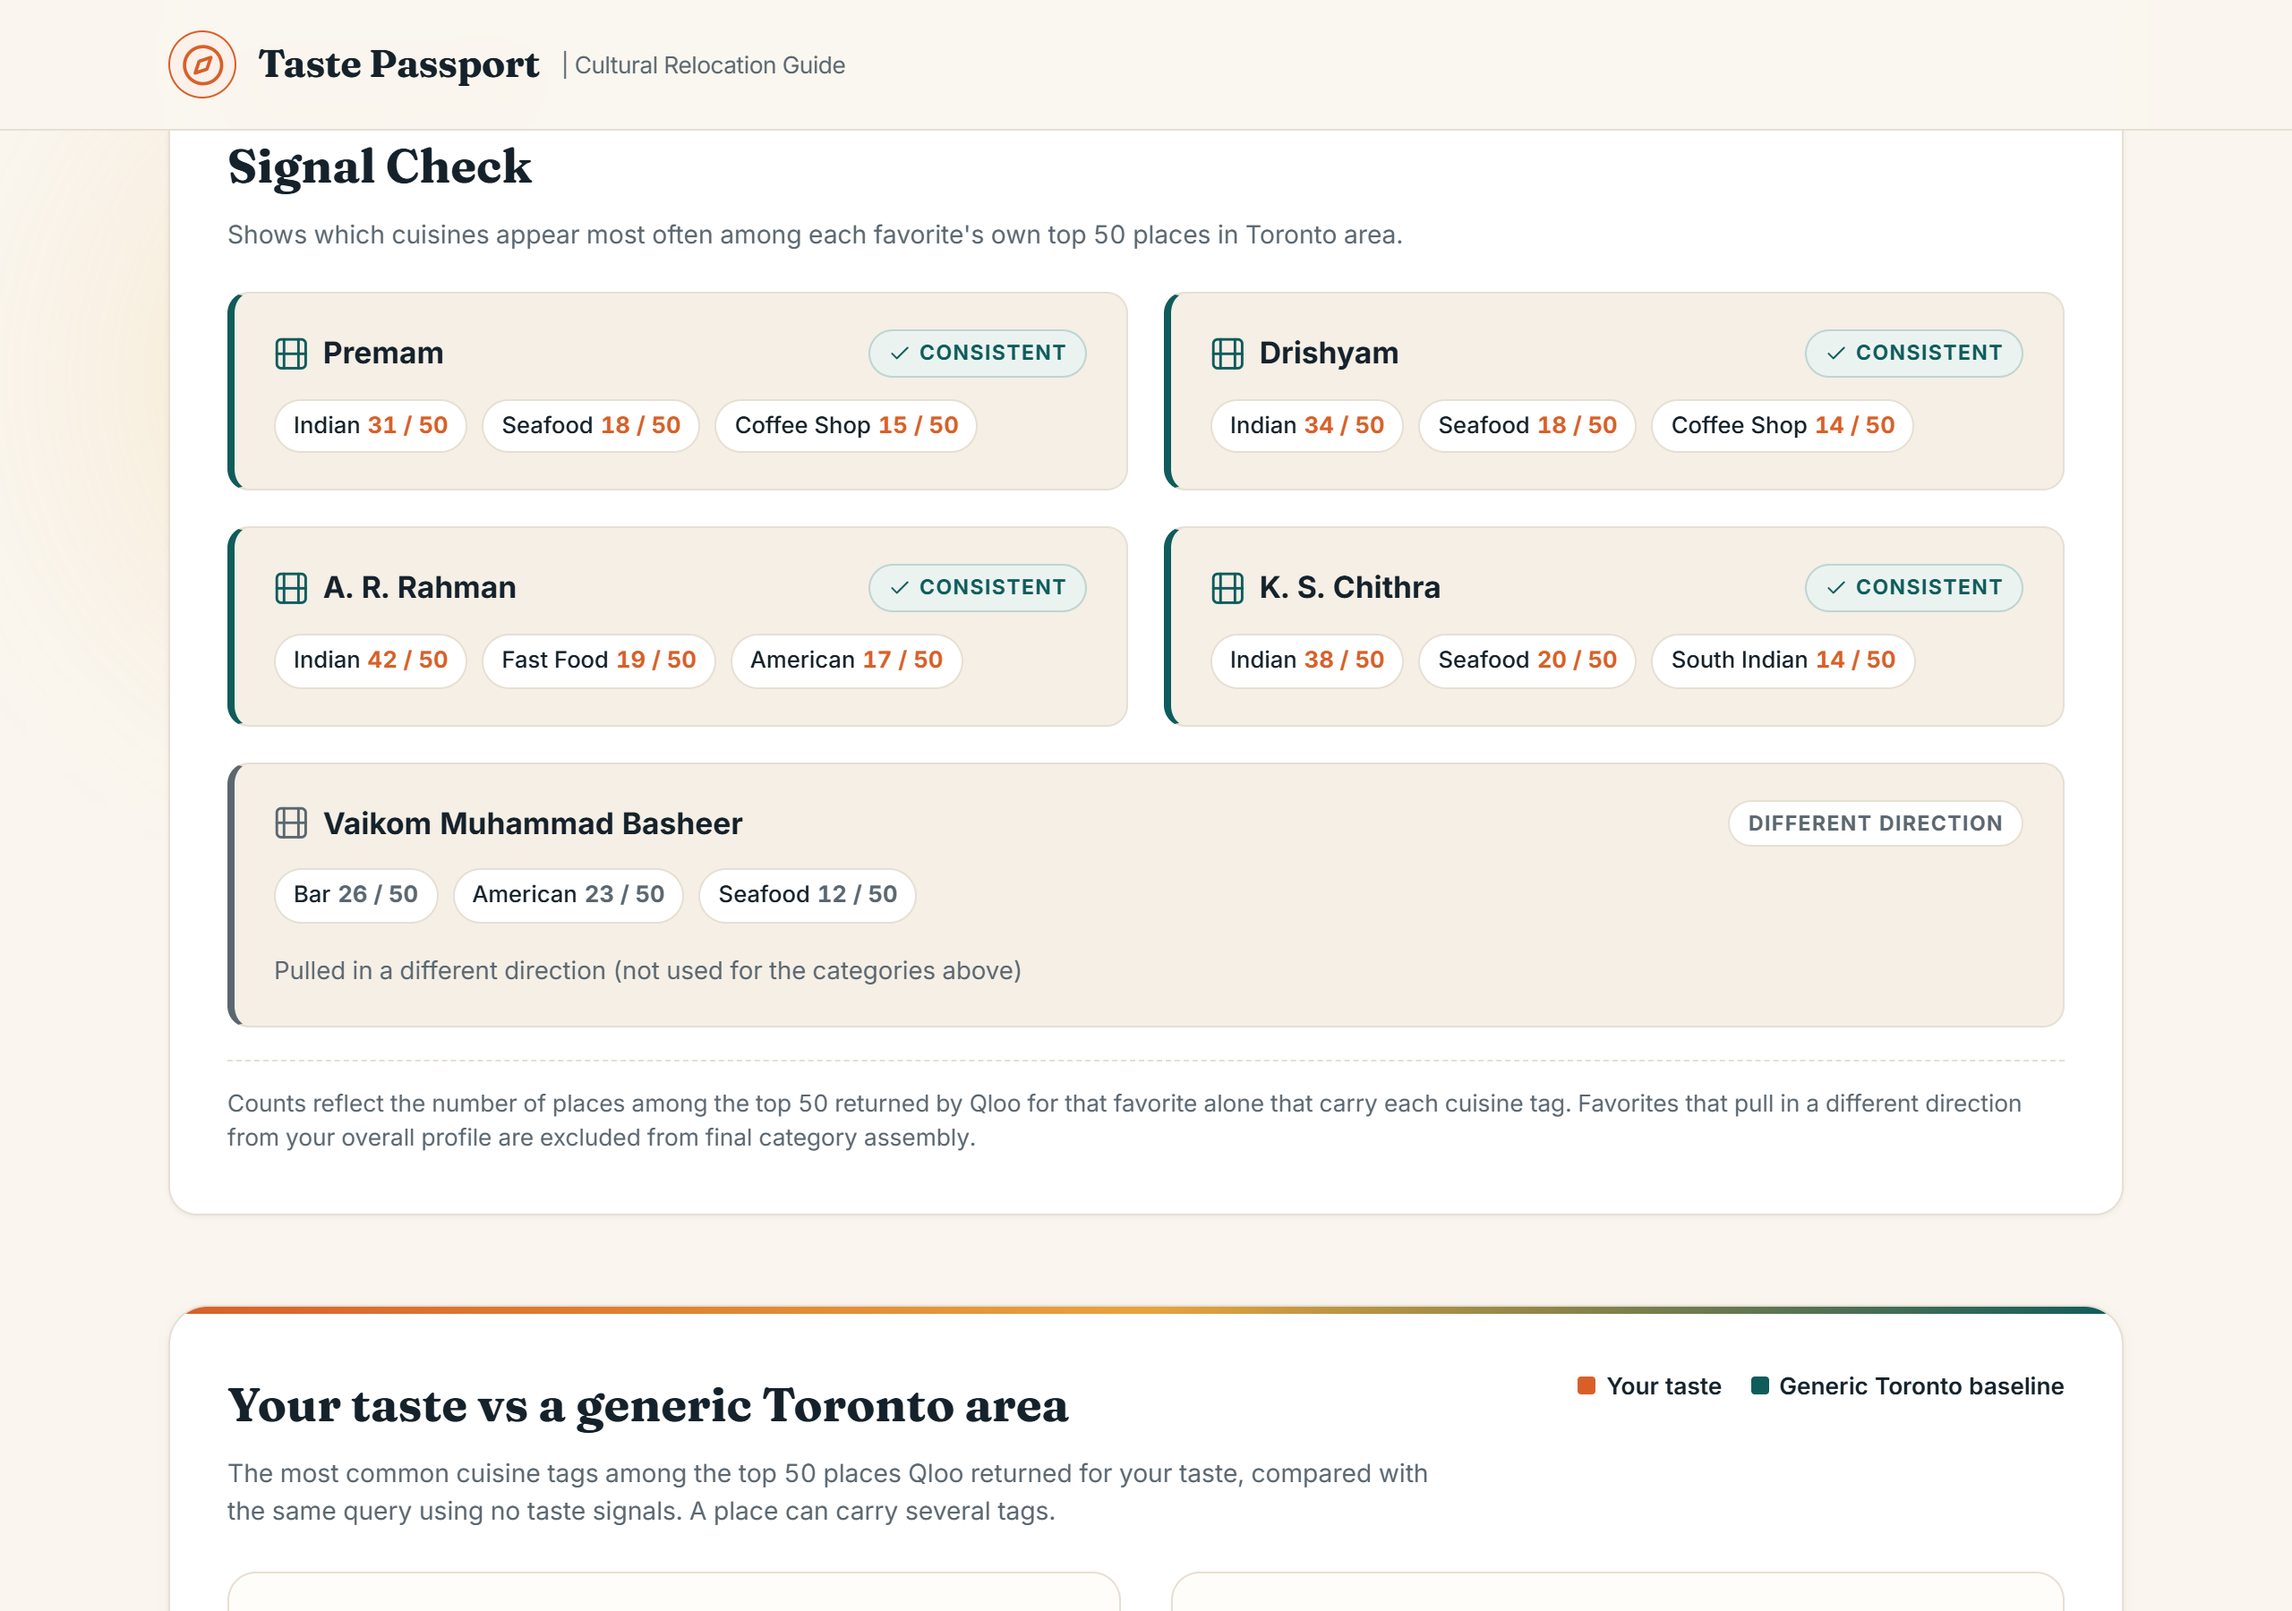
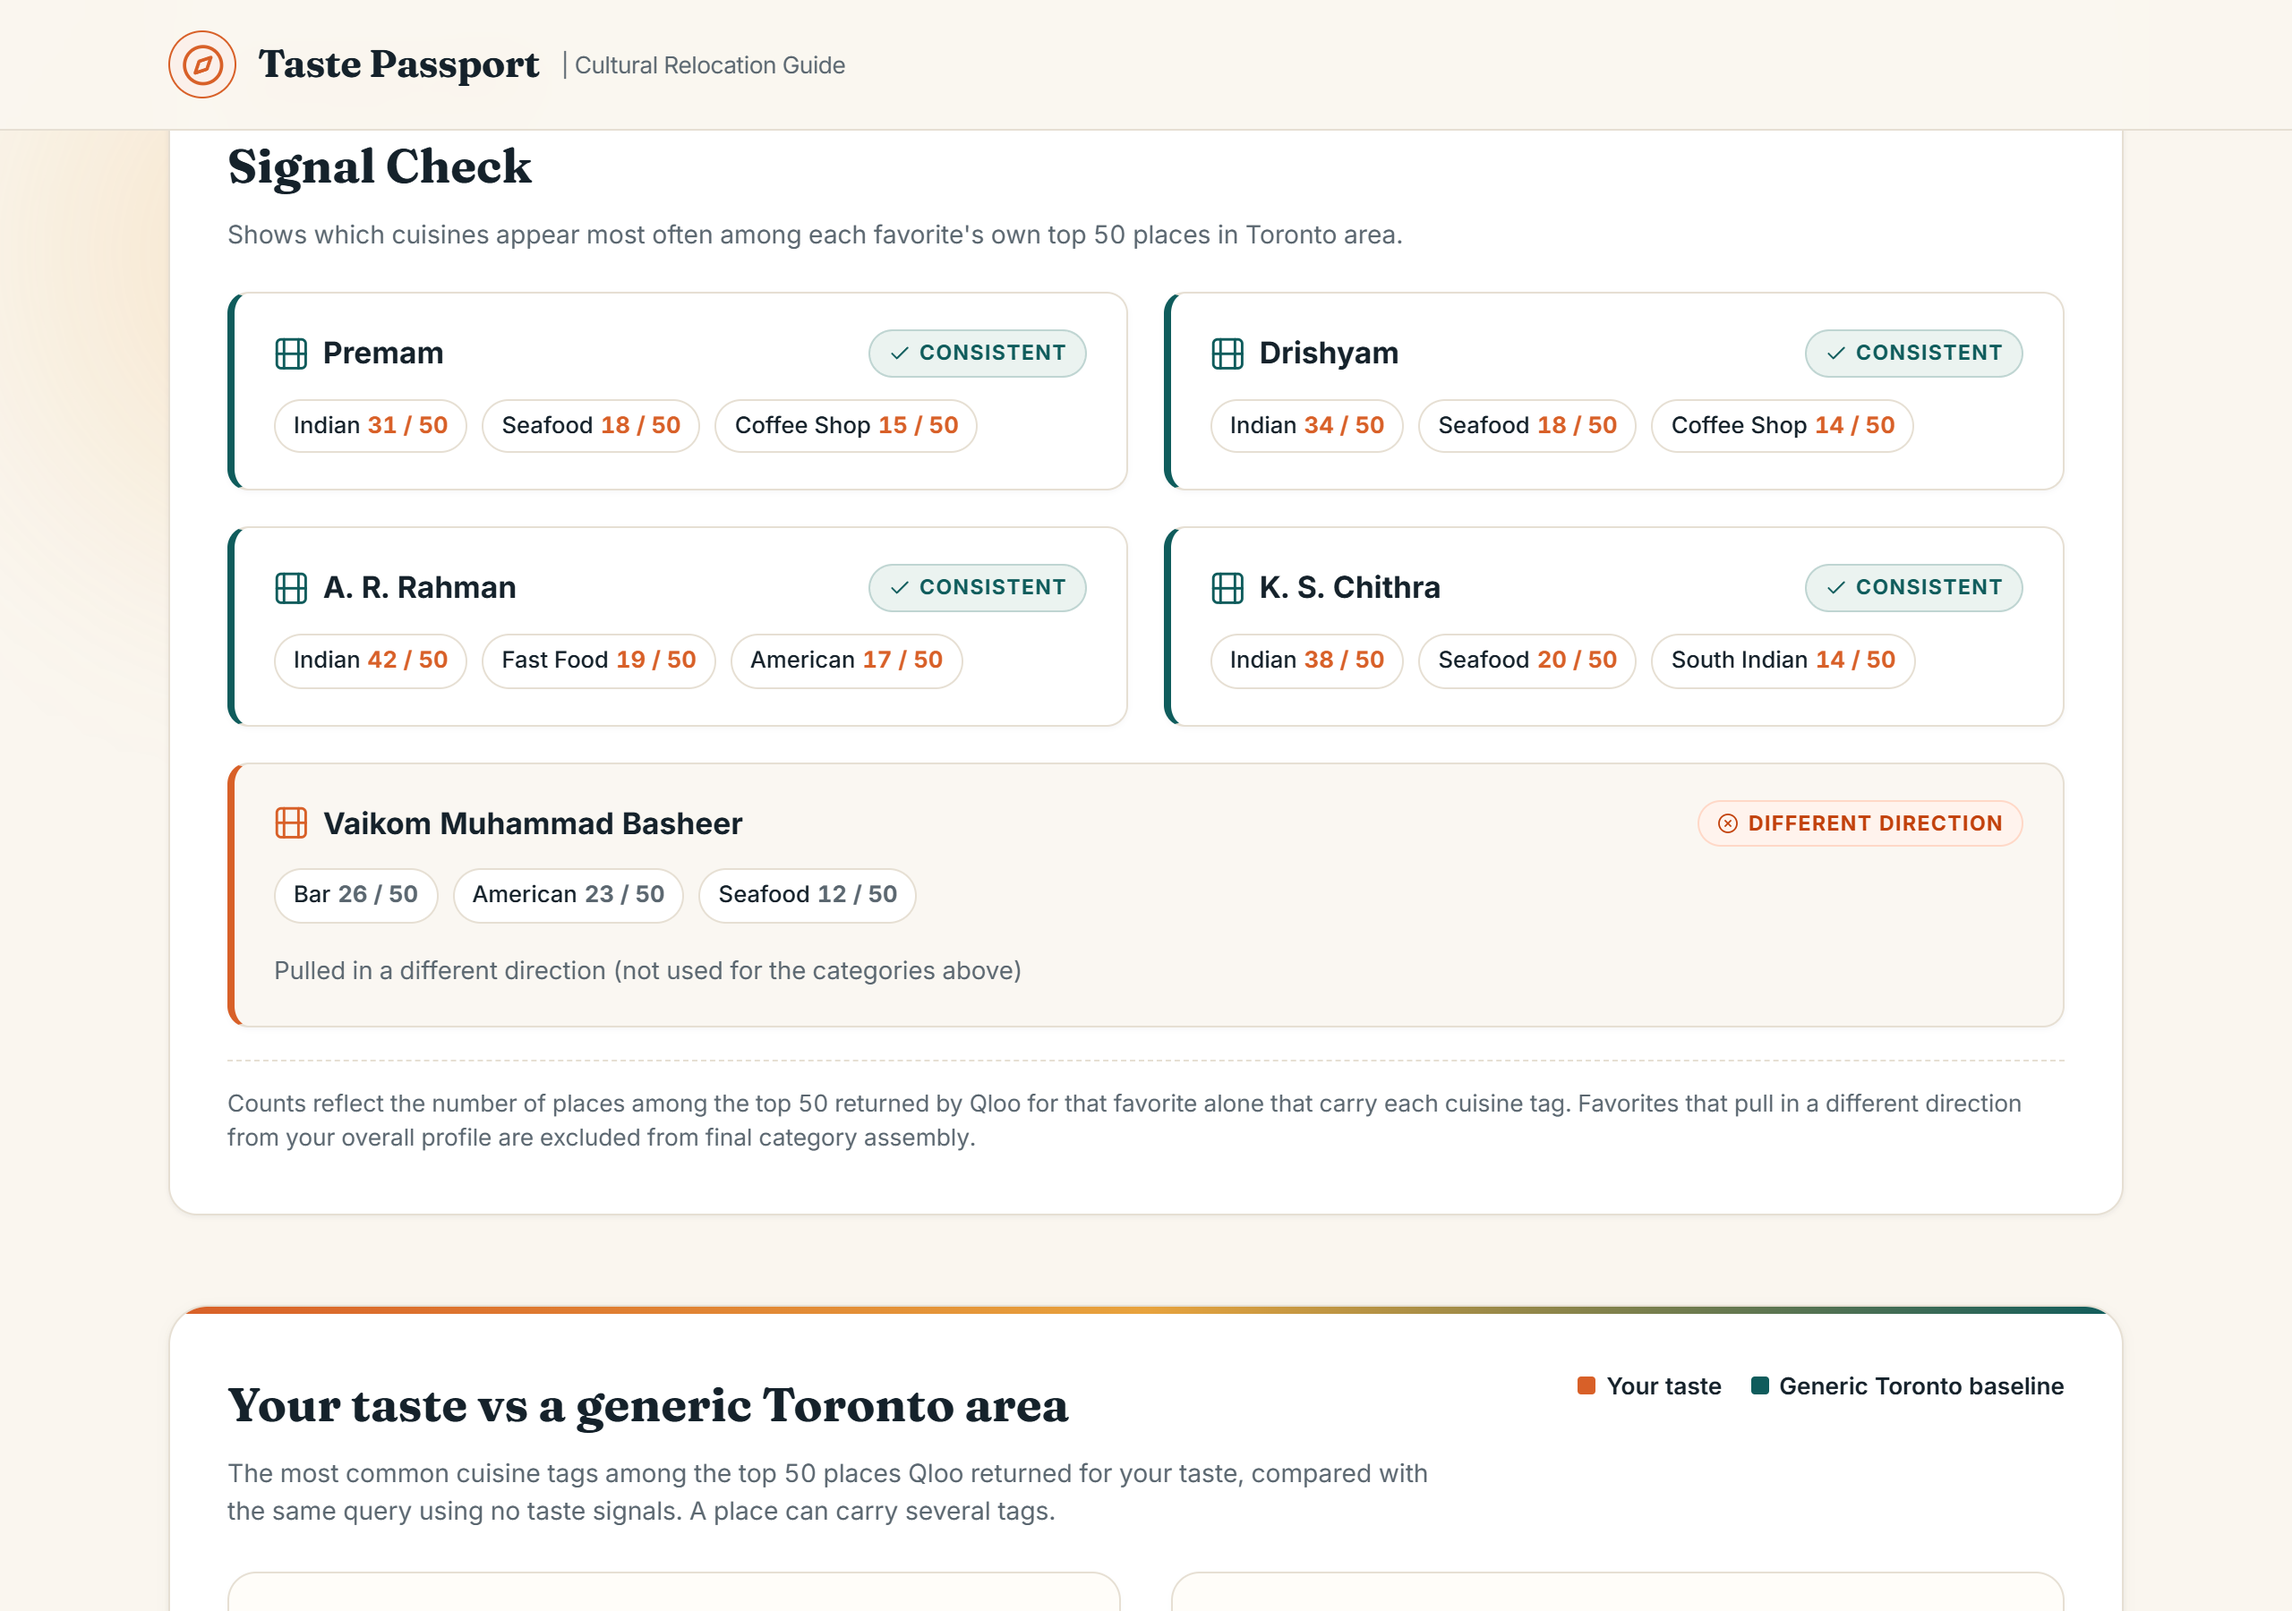
fix(ui): order Signal Check with consistent cards first, responsive odd-row spanning, and distinctive border/fill styling

Changed region(s): [[0.0938, 0.1556, 0.9062, 0.4667], [0.75, 0.4978, 0.875, 0.5289], [0.0938, 0.4978, 0.125, 0.5289]]

diff --git a/src/components/SignalCheck.tsx b/src/components/SignalCheck.tsx
@@ -11,6 +11,10 @@ interface SignalCheckProps {
 export function SignalCheck({ signals, destination = 'destination' }: SignalCheckProps) {
   if (!signals || signals.length === 0) return null;
 
+  const consistentSignals = signals.filter((s) => s.isConsistent);
+  const divergentSignals = signals.filter((s) => !s.isConsistent);
+  const isOddConsistent = consistentSignals.length % 2 !== 0;
+
   return (
     <section className="signal-check-container" style={{ marginTop: '50px' }}>
       <div className="signal-check-header">
@@ -26,54 +30,17 @@ export function SignalCheck({ signals, destination = 'destination' }: SignalChec
       </div>
 
       <div className="signal-check-cards-grid-2col">
-        {signals.map((sig, idx) => {
-          const isConsistent = sig.isConsistent;
+        {/* 1. Consistent favorites first */}
+        {consistentSignals.map((sig, idx) => {
+          // If odd number of consistent cards, the last consistent card takes the full row
+          const spansFullRow = isOddConsistent && idx === consistentSignals.length - 1;
 
-          if (!isConsistent) {
-            // Pulled in a different direction: spans full row, muted warm grey, no red, no error icon
-            return (
-              <div
-                key={idx}
-                className="signal-card-box different-direction-card"
-                style={{ gridColumn: '1 / -1' }}
-              >
-                <div className="signal-card-top">
-                  <div className="signal-entity-name">
-                    <svg className="ui-icon" style={{ color: 'var(--color-ink-muted)' }} viewBox="0 0 24 24">
-                      <rect x="2" y="2" width="20" height="20" rx="3" ry="3" />
-                      <line x1="7" y1="2" x2="7" y2="22" />
-                      <line x1="17" y1="2" x2="17" y2="22" />
-                      <line x1="2" y1="12" x2="22" y2="12" />
-                    </svg>
-                    <span>{sig.favoriteName}</span>
-                  </div>
-
-                  <span className="signal-status-pill muted">
-                    Different direction
-                  </span>
-                </div>
-
-                {sig.topTags && sig.topTags.length > 0 && (
-                  <div className="signal-badges-row">
-                    {sig.topTags.map((tag, tagIdx) => (
-                      <span key={tagIdx} className="signal-count-chip muted">
-                        <span>{tag.tagName}</span>
-                        <strong style={{ marginLeft: '4px' }}>{tag.count} / 50</strong>
-                      </span>
-                    ))}
-                  </div>
-                )}
-
-                <div className="signal-body-text-muted">
-                  Pulled in a different direction (not used for the categories above)
-                </div>
-              </div>
-            );
-          }
-
-          // Consistent card
           return (
-            <div key={idx} className="signal-card-box consistent-card">
+            <div
+              key={`consistent-${idx}`}
+              className="signal-card-box consistent-card"
+              style={spansFullRow ? { gridColumn: '1 / -1' } : undefined}
+            >
               <div className="signal-card-top">
                 <div className="signal-entity-name">
                   <svg className="ui-icon" style={{ color: 'var(--color-teal)' }} viewBox="0 0 24 24">
@@ -106,6 +73,51 @@ export function SignalCheck({ signals, destination = 'destination' }: SignalChec
             </div>
           );
         })}
+
+        {/* 2. Different direction favorites last */}
+        {divergentSignals.map((sig, idx) => (
+          <div
+            key={`divergent-${idx}`}
+            className="signal-card-box different-direction-card"
+            style={{ gridColumn: '1 / -1' }}
+          >
+            <div className="signal-card-top">
+              <div className="signal-entity-name">
+                <svg className="ui-icon" style={{ color: 'var(--color-terracotta)' }} viewBox="0 0 24 24">
+                  <rect x="2" y="2" width="20" height="20" rx="3" ry="3" />
+                  <line x1="7" y1="2" x2="7" y2="22" />
+                  <line x1="17" y1="2" x2="17" y2="22" />
+                  <line x1="2" y1="12" x2="22" y2="12" />
+                </svg>
+                <span>{sig.favoriteName}</span>
+              </div>
+
+              <span className="signal-status-pill different">
+                <svg className="ui-icon" style={{ width: '12px', height: '12px' }} viewBox="0 0 24 24" fill="none" stroke="currentColor" strokeWidth="2">
+                  <circle cx="12" cy="12" r="10" />
+                  <line x1="15" y1="9" x2="9" y2="15" />
+                  <line x1="9" y1="9" x2="15" y2="15" />
+                </svg>
+                <span>Different direction</span>
+              </span>
+            </div>
+
+            {sig.topTags && sig.topTags.length > 0 && (
+              <div className="signal-badges-row">
+                {sig.topTags.map((tag, tagIdx) => (
+                  <span key={tagIdx} className="signal-count-chip muted">
+                    <span>{tag.tagName}</span>
+                    <strong style={{ marginLeft: '4px' }}>{tag.count} / 50</strong>
+                  </span>
+                ))}
+              </div>
+            )}
+
+            <div className="signal-body-text-muted">
+              Pulled in a different direction (not used for the categories above)
+            </div>
+          </div>
+        ))}
       </div>
 
       {/* Caption explaining counts */}

diff --git a/src/app/globals.css b/src/app/globals.css
@@ -1010,7 +1010,6 @@ div[tabindex="0"]:focus-visible {
 }
 
 .signal-card-box {
-  background: var(--bg-subtle);
   border: 1px solid var(--color-hairline);
   border-radius: var(--radius-md);
   padding: 20px 22px;
@@ -1019,6 +1018,7 @@ div[tabindex="0"]:focus-visible {
   gap: 12px;
   transition: all var(--transition-fast);
   position: relative;
+  box-shadow: 0 1px 3px rgba(21, 34, 43, 0.04);
 }
 
 .signal-card-box:hover {
@@ -1028,13 +1028,14 @@ div[tabindex="0"]:focus-visible {
 }
 
 .signal-card-box.consistent-card {
+  background: #FFFFFF;
   border-left: 4px solid var(--color-teal);
 }
 
 .signal-card-box.different-direction-card {
-  border: 1.5px solid var(--color-hairline);
-  background: var(--bg-subtle);
-  border-left: 4px solid var(--color-ink-muted);
+  background: #FAF7F2;
+  border: 1px solid var(--color-hairline);
+  border-left: 4px solid var(--color-terracotta);
 }
 
 .signal-card-top {
@@ -1069,6 +1070,12 @@ div[tabindex="0"]:focus-visible {
   background: var(--color-teal-light);
   color: var(--color-teal);
   border: 1px solid rgba(15, 92, 92, 0.2);
+}
+
+.signal-status-pill.different {
+  background: #FFF3ED;
+  color: #C2410C;
+  border: 1px solid #FFD8C7;
 }
 
 .signal-status-pill.muted {
